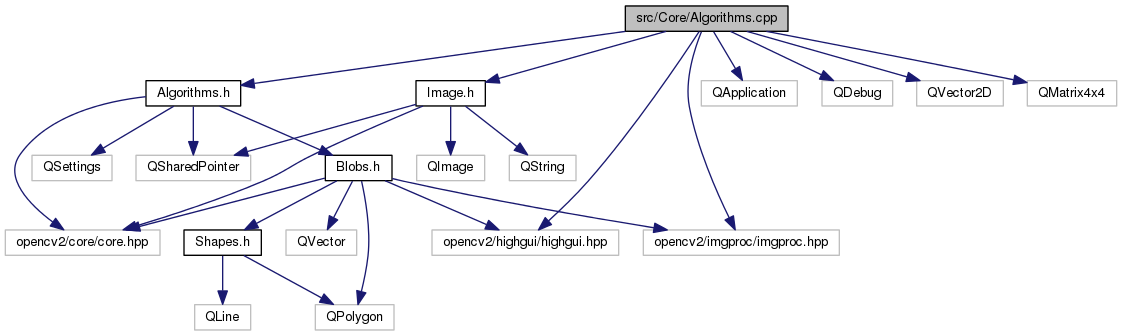
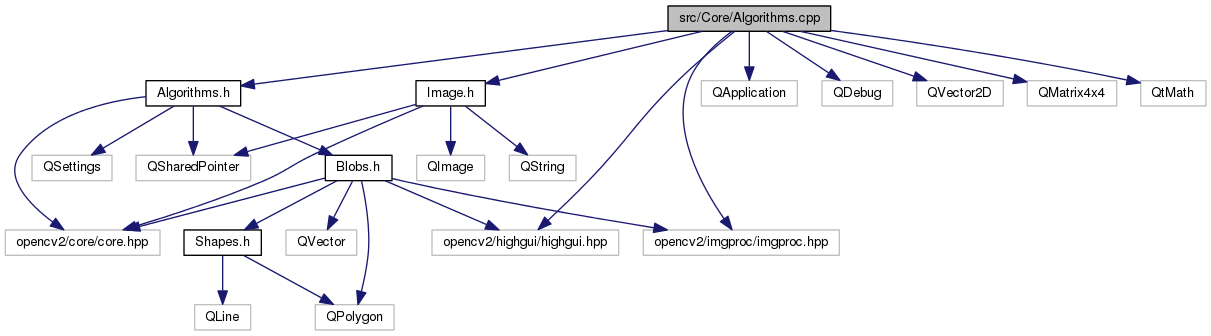
Automated documentation build for changeset a3b226bcd7202fb6ae4275c946dcdc2bc407e3ee.

diff --git a/html/_algorithms_8cpp.html b/html/_algorithms_8cpp.html
@@ -113,6 +113,7 @@ $(document).ready(function(){initNavTree('_algorithms_8cpp.html','');});
 <code>#include &lt;QDebug&gt;</code><br/>
 <code>#include &lt;QVector2D&gt;</code><br/>
 <code>#include &lt;QMatrix4x4&gt;</code><br/>
+<code>#include &lt;QtMath&gt;</code><br/>
 <code>#include &quot;opencv2/imgproc/imgproc.hpp&quot;</code><br/>
 <code>#include &quot;opencv2/highgui/highgui.hpp&quot;</code><br/>
 <code>#include &quot;<a class="el" href="_image_8h_source.html">Image.h</a>&quot;</code><br/>
@@ -121,7 +122,7 @@ Include dependency graph for Algorithms.cpp:</div>
 <div class="dyncontent">
 <div class="center"><img src="_algorithms_8cpp__incl.png" border="0" usemap="#src_2_core_2_algorithms_8cpp" alt=""/></div>
 <map name="src_2_core_2_algorithms_8cpp" id="src_2_core_2_algorithms_8cpp">
-<area shape="rect" id="node2" href="_algorithms_8h.html" title="Algorithms.h" alt="" coords="146,80,240,107"/><area shape="rect" id="node17" href="_image_8h.html" title="Image.h" alt="" coords="416,80,485,107"/><area shape="rect" id="node6" href="_blobs_8h.html" title="Blobs.h" alt="" coords="325,155,392,181"/><area shape="rect" id="node7" href="_shapes_8h.html" title="Shapes.h" alt="" coords="184,229,260,256"/></map>
+<area shape="rect" id="node2" href="_algorithms_8h.html" title="Algorithms.h" alt="" coords="146,80,240,107"/><area shape="rect" id="node18" href="_image_8h.html" title="Image.h" alt="" coords="416,80,485,107"/><area shape="rect" id="node6" href="_blobs_8h.html" title="Blobs.h" alt="" coords="325,155,392,181"/><area shape="rect" id="node7" href="_shapes_8h.html" title="Shapes.h" alt="" coords="184,229,260,256"/></map>
 </div>
 </div><table class="memberdecls">
 <tr class="heading"><td colspan="2"><h2 class="groupheader"><a name="namespaces"></a>
